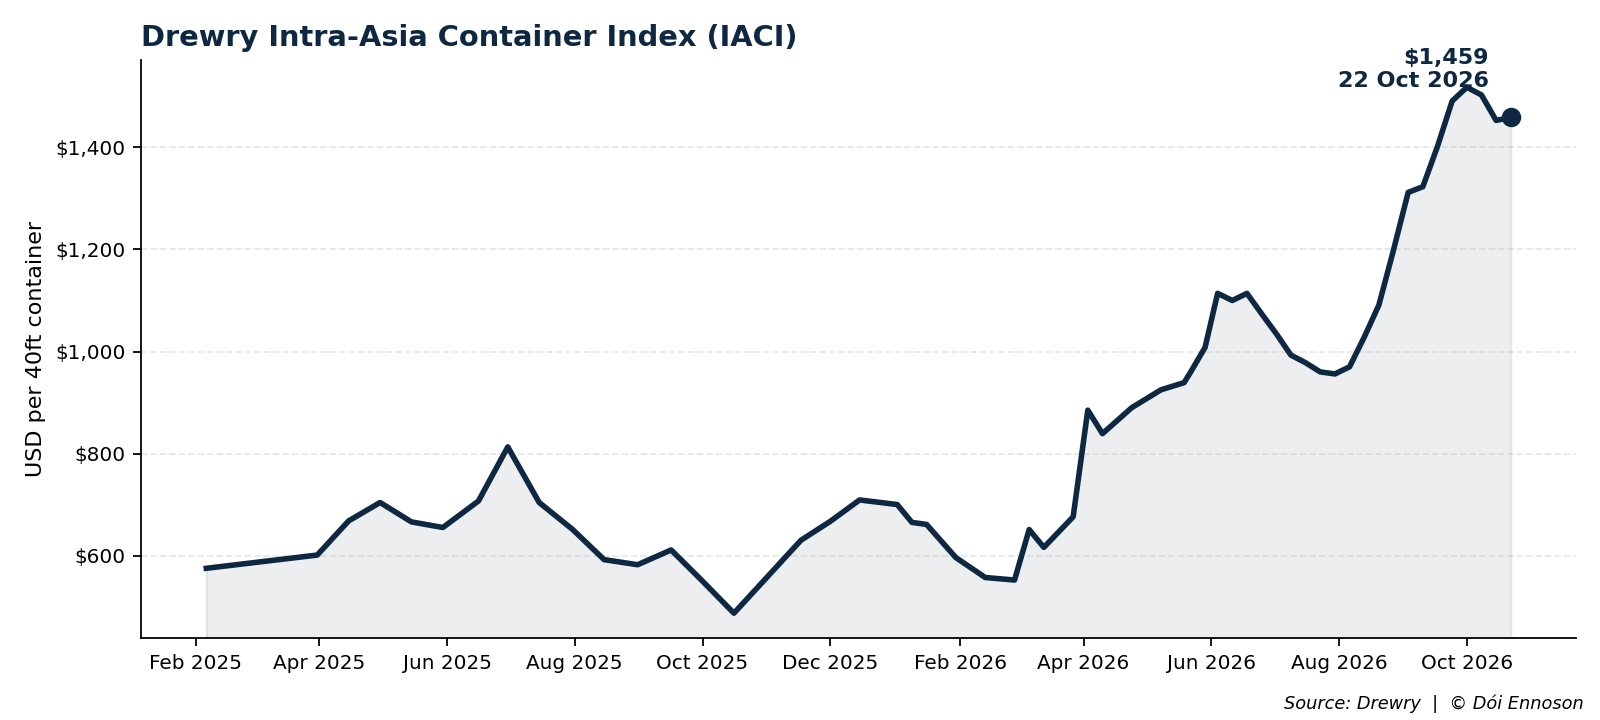
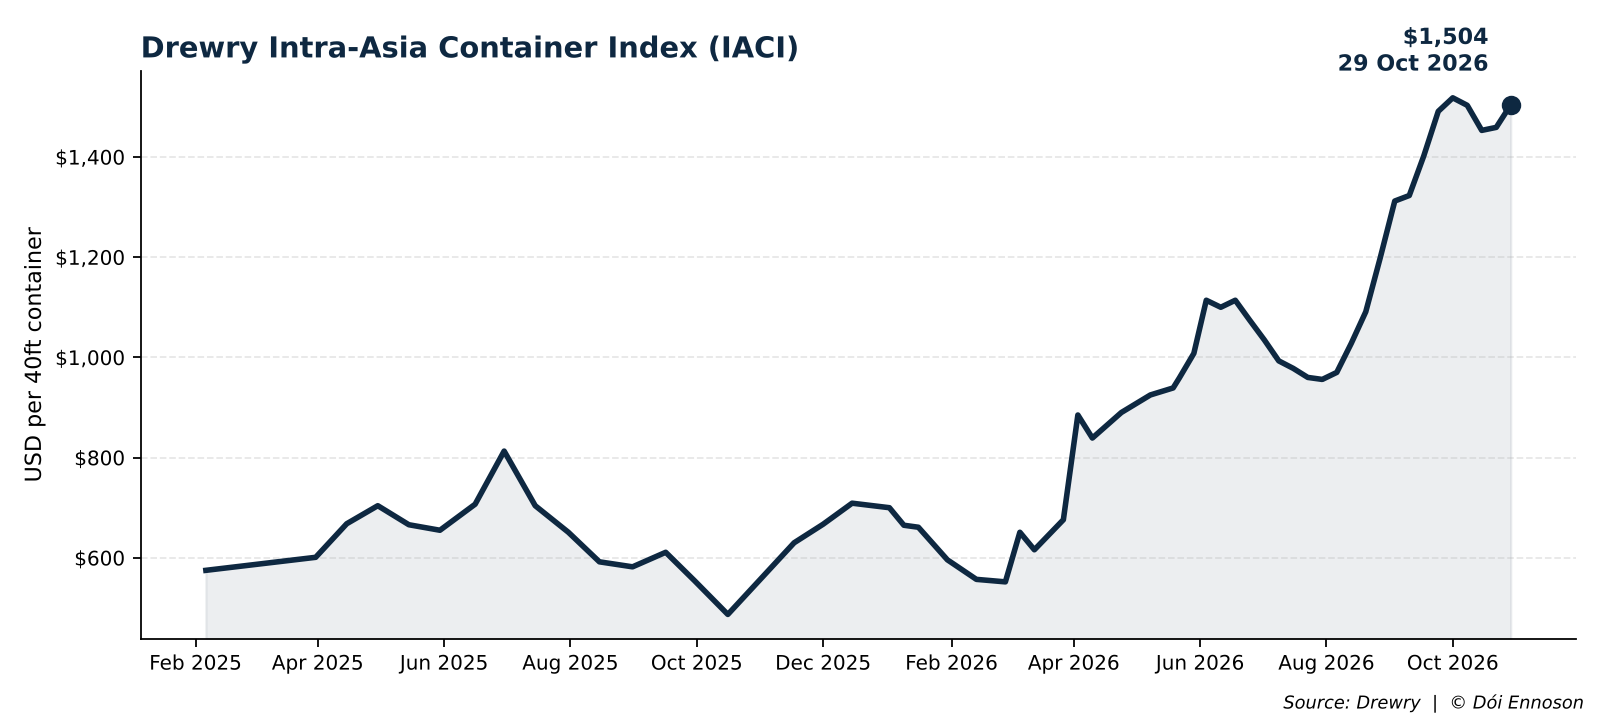
Fix WCI/IACI extraction when weekly change is given in dollars
Drewry wrote "(IACI) increased $46 to $1,504 per 40ft container"; the
old pattern stopped at the first dollar amount and failed. The pattern
now skips earlier amounts within the sentence. Verified against the
real email of 29 October 2026 (WCI 4429, IACI 1504). Adds the missed
IACI value of 29.10.2026 and regenerated charts.

Claude-Session: https://claude.ai/code/session_01JCdhY1R9vYqJgFoeeUM1W8

diff --git a/src/scraper.py b/src/scraper.py
@@ -163,7 +163,7 @@ def extract_wci_from_html(html_content, subject):
         soup = BeautifulSoup(html_content, 'html.parser')
         text = soup.get_text(strip=True)
         
-        wci_match = re.search(r'\(WCI\)[^$]*\$(\d{1,3}(?:,\d{3})*)\s*per 40ft container', text)
+        wci_match = re.search(r'\(WCI\)[^.]*?\$(\d{1,3}(?:,\d{3})*)\s*per 40ft container', text)
         if not wci_match:
             logger.error("❌ DEBUG - extract_wci_from_html: Could not extract WCI value")
             return None, None
@@ -279,7 +279,7 @@ def extract_iaci_from_html(html_content, subject):
         soup = BeautifulSoup(html_content, 'html.parser')
         text = soup.get_text(strip=True)
         
-        iaci_match = re.search(r'\(IACI\)[^$]*\$(\d{1,3}(?:,\d{3})*)\s*per 40ft container', text)
+        iaci_match = re.search(r'\(IACI\)[^.]*?\$(\d{1,3}(?:,\d{3})*)\s*per 40ft container', text)
         if not iaci_match:
             logger.error("❌ DEBUG - extract_iaci_from_html: Could not extract IACI value")
             return None, None

diff --git a/README.md b/README.md
@@ -416,6 +416,10 @@ Note: Git history before October 2026 still contains the former `subscribers.csv
 
 ## 📝 Changelog
 
+### 2.0.1 (October 2026)
+- Fixed WCI/IACI extraction when Drewry states the weekly change in dollars ("increased $46 to $1,504 per 40ft container"); the old pattern stopped at the first dollar amount. IACI value of 29.10.2026 added manually
+- Newsletter always sends a copy to the `EMAIL_CONFIG` mailbox; the run fails if any recipient could not be sent to
+
 ### 2.0.0 (October 2026)
 
 **Subscription management**
